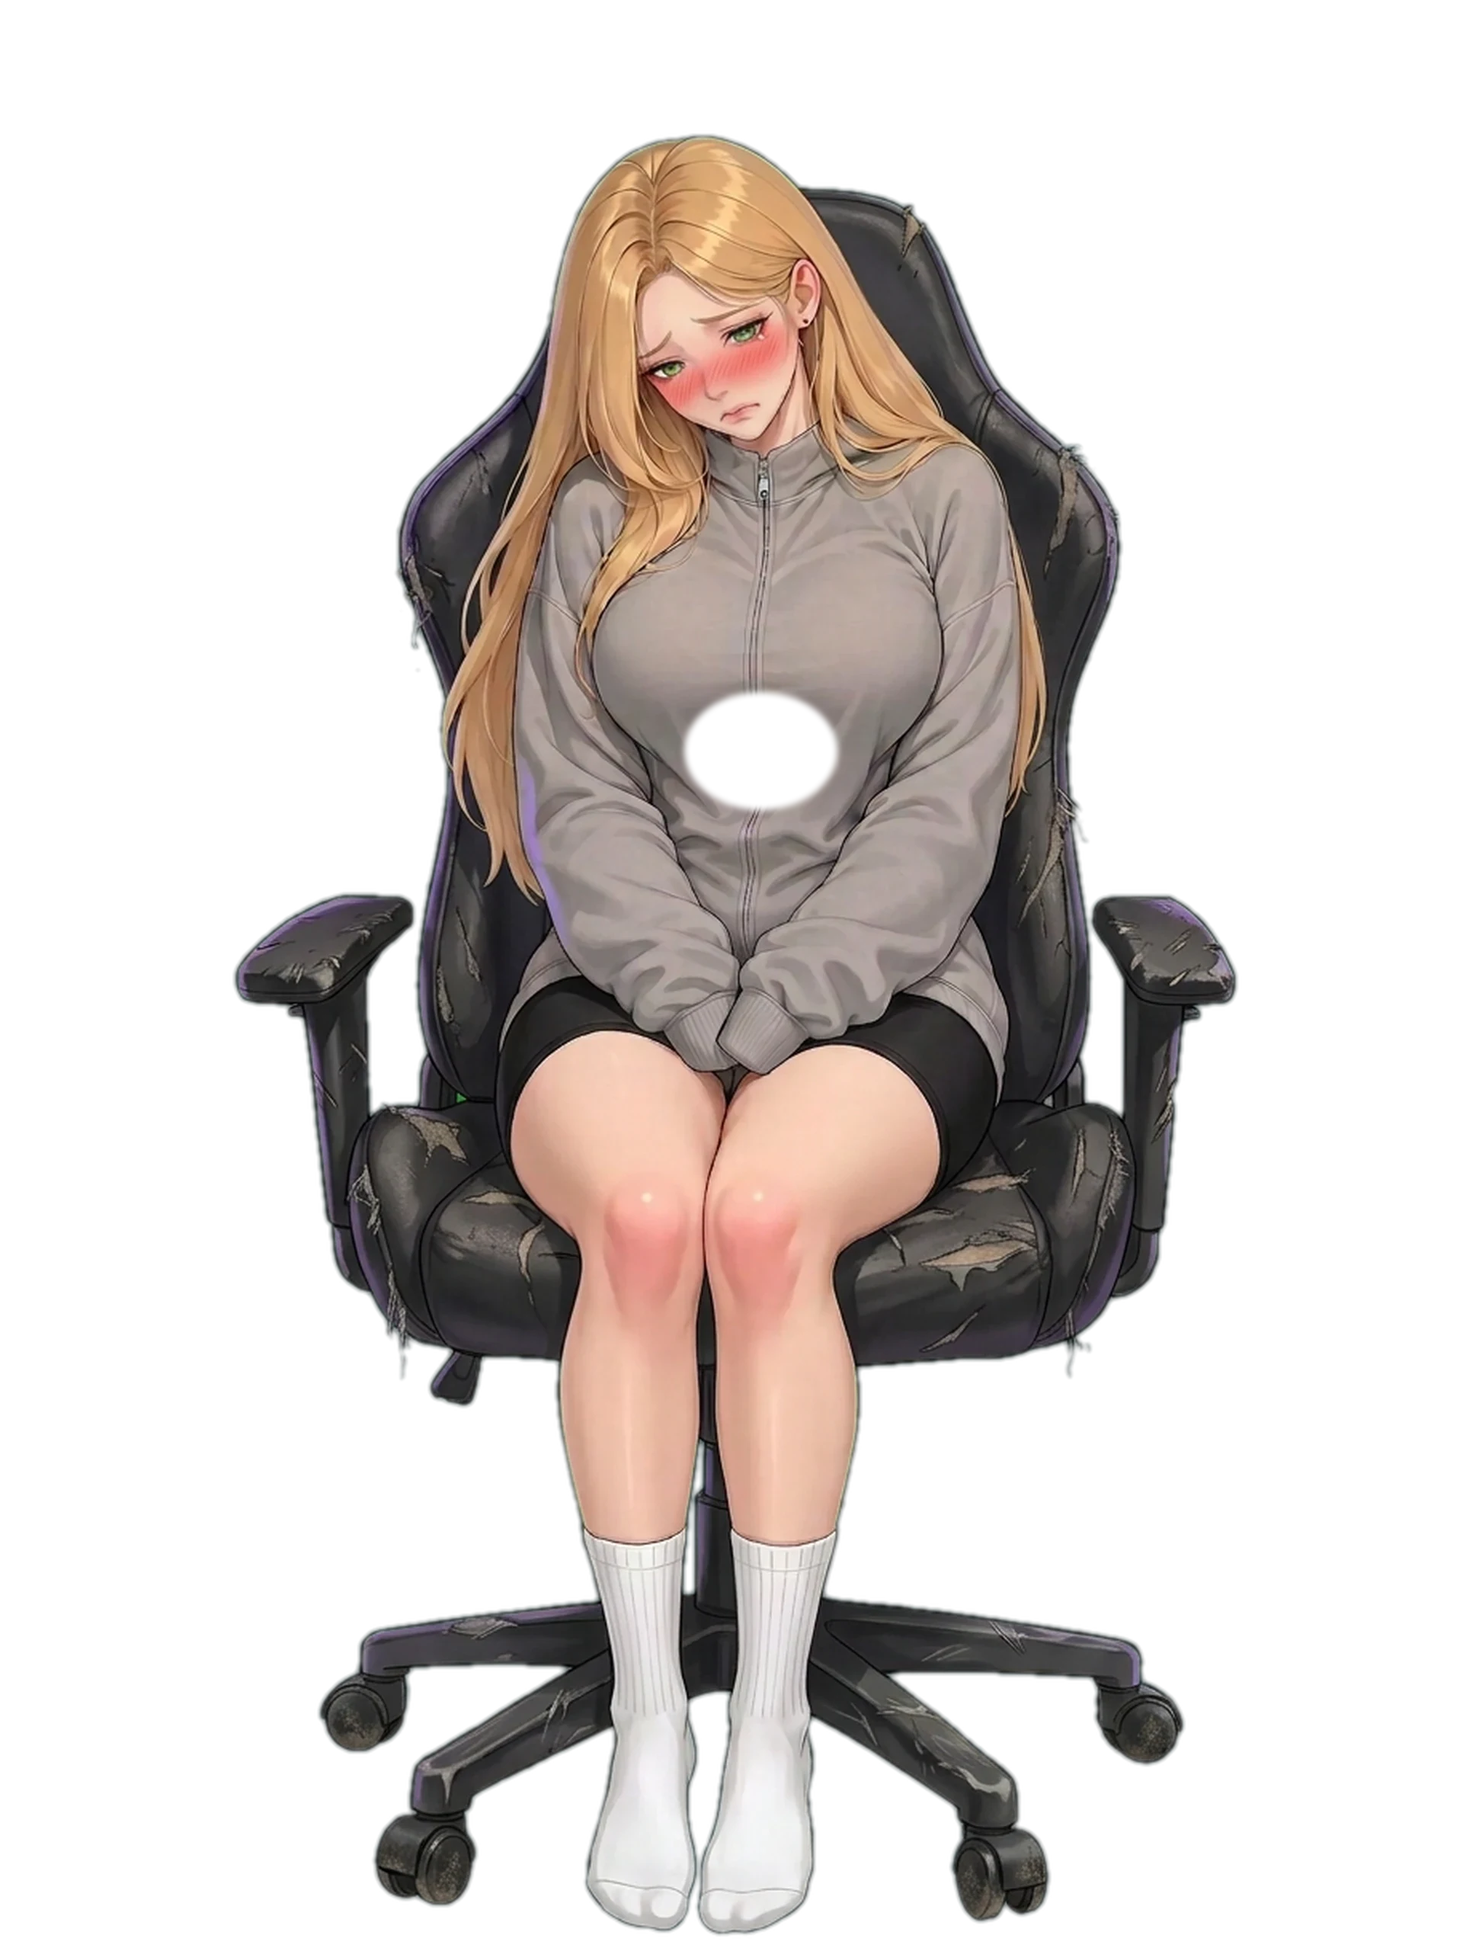
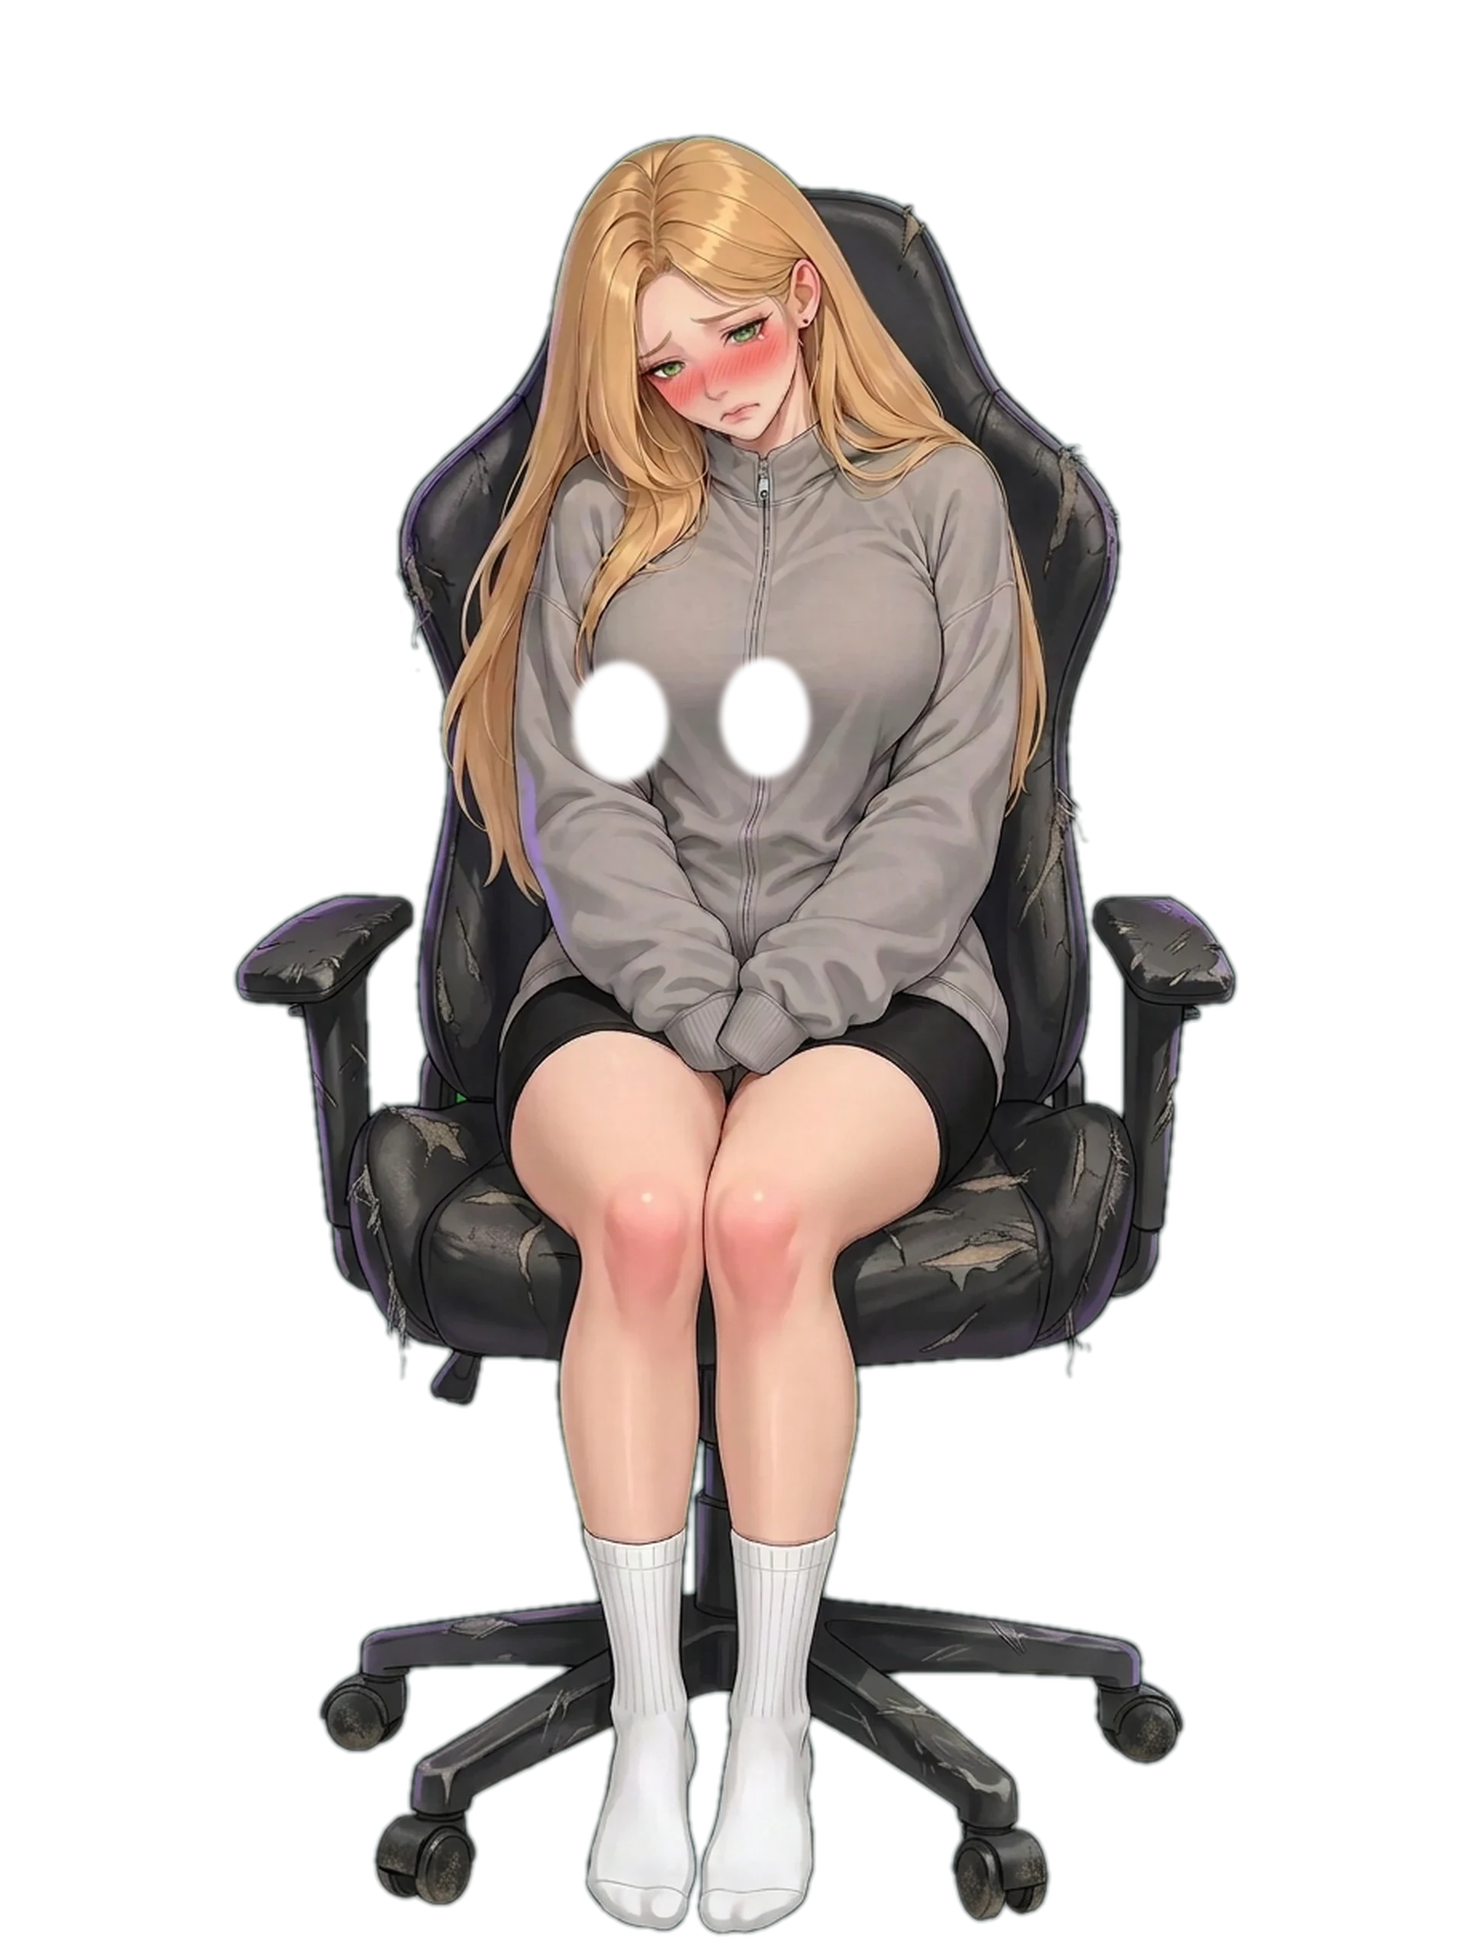
Chest jiggle per breast: two separate props with their own masks and their own pivot at the top of each round form, so each one moves on its own instead of a single block centred on the cleavage; holes re-cut to match; mask feathered to the drawn silhouette so the outline stays fixed

Changed region(s): [[0.375, 0.3125, 0.5938, 0.4375]]

diff --git a/index.html b/index.html
@@ -981,19 +981,19 @@ main{
 #artEmoBlink{ z-index:3; }
 .hero .art-emo.on{ opacity:1; }
 .hero .art-emo.blink{ transition:none; }
-/* грудь: отдельный маленький проп (720 px, маска запечена в альфу).
-   20-мегапиксельная копия кадра под CSS-маской убивала fps — здесь её нет. */
+/* грудь: ДВА отдельных маленьких пропа — по одному на каждую округлость
+   (720 px, маска запечена в альфу). Каждый колышется вокруг своей оси,
+   поэтому не «центр между грудей», а каждая грудь по себе. */
 .hero .art-chest{
   position:absolute; left:22%; top:12%; width:56%; height:38%;
-  background-position:50% 50%; background-size:100% 100%; background-repeat:no-repeat;
-  z-index:4; pointer-events:none; transform-origin:50% 10%;
-  opacity:0; transition:opacity .3s ease;
-  will-change:transform;
+  z-index:4; pointer-events:none; opacity:0; transition:opacity .3s ease;
 }
 .hero .art-chest.on{ opacity:1; }
-/* пока наверху нарисованный кадр эмоции, свой проп груди прячем:
-   его пиксели из базового кадра, а у кадра-эмоции грудь уже своя */
-.hero .art-chest.on.hidden{ opacity:0; }
+.hero .art-chest i{
+  position:absolute; inset:0; display:block;
+  background-position:50% 50%; background-size:100% 100%; background-repeat:no-repeat;
+  will-change:transform; backface-visibility:hidden;
+}
 
 /* грудь проседает, сплющивается и пружинит обратно */
 /* пружина по физике: быстрое падение (ускорение), отскок с замедлением,
@@ -1007,17 +1007,17 @@ main{
   74%  { transform:translateY(0.06%)  scale(1.0003, 1.0006); }
   100% { transform:translateY(0)      scale(1, 1); }
 }
-.hero .art-chest.hit{ animation:chestJiggle 1.15s linear; }
+.hero .art-chest.hit i{ animation:chestJiggle 1.15s linear; }
 /* дыхание: на 4-й стадии грудь тяжелее — дышит заметнее */
 @keyframes chestBreathe{
   0%,100% { transform:translateY(0)     scale(1, 1); }
   50%     { transform:translateY(.35%)  scale(1, 1.006); }
 }
-.hero .art-chest.breathe{ animation:chestBreathe var(--breathe,4.6s) ease-in-out infinite; }
-.hero .art-chest.hit.breathe{ animation:chestJiggle 1.15s linear; }
+.hero .art-chest.breathe i{ animation:chestBreathe var(--breathe,4.6s) ease-in-out infinite; }
+.hero .art-chest.hit.breathe i{ animation:chestJiggle 1.15s linear; }
 @media (prefers-reduced-motion: reduce){
-  .hero .art-chest.hit, .hero .art-chest.breathe,
-  .hero .art-chest.hit.breathe{ animation:none; }
+  .hero .art-chest.hit i, .hero .art-chest.breathe i,
+  .hero .art-chest.hit.breathe i{ animation:none; }
 }
 
 /* румянец: два мягких пятна на щеках, сила зависит от «смущения» */
@@ -1220,8 +1220,10 @@ main{
                    sizes="(max-width: 520px) 370px, 540px" />
               <img class="art-img art-emo" id="artEmoBlink" alt="" aria-hidden="true" decoding="async"
                    sizes="(max-width: 520px) 370px, 540px" />
-              <!-- грудь: маленький проп из того же кадра с запечённой мягкой маской -->
-              <div class="art-chest" id="artChest" aria-hidden="true"></div>
+              <!-- грудь: два маленьких пропа (левая/правая) с запечённой мягкой маской -->
+              <div class="art-chest" id="artChest" aria-hidden="true">
+                <i id="artChestL"></i><i id="artChestR"></i>
+              </div>
               <div class="art-blush" id="artBlush" aria-hidden="true"></div>
             </div>
           </div>
@@ -1744,6 +1746,37 @@ function motionInit(){
 function motionSync(src){
   MOTION.src = src || '';
   if (MOTION.lean) MOTION.lean.classList.toggle('idle', !!MOTION.src && !MOTION.reduced);
+}
+
+/* геометрия груди: контур каждой округлости в долях кадра (cx, cy, rx, ry).
+   Ось вращения — верх груди у грудной стенки, чтобы двигалась именно форма,
+   а нарисованный силуэт и всё вокруг оставалось на месте. */
+const BUST_GEO = {
+  sg1: { l:[0.472,0.378,0.040,0.034], r:[0.556,0.375,0.042,0.034] },
+  sg2: { l:[0.424,0.370,0.048,0.045], r:[0.523,0.368,0.045,0.045] },
+  sg3: { l:[0.442,0.345,0.063,0.045], r:[0.586,0.340,0.065,0.047] },
+  sg4: { l:[0.429,0.404,0.076,0.074], r:[0.597,0.397,0.072,0.075] },
+};
+const CHEST_BOX = { x0:0.22, y0:0.12, x1:0.78, y1:0.50 };
+
+function chestParts(){
+  return [document.getElementById('artChestL'), document.getElementById('artChestR')];
+}
+
+function chestSet(tag){
+  const geo = tag && BUST_GEO[tag];
+  const parts = chestParts();
+  for (let i = 0; i < 2; i++){
+    const part = parts[i];
+    if (!part) continue;
+    if (!geo){ part.style.backgroundImage = ''; continue; }
+    const side = i === 0 ? 'l' : 'r';
+    const [cx, cy, rx, ry] = geo[side];
+    part.style.backgroundImage = `url("assets/chest_${tag}_${side}.webp")`;
+    const ox = (cx - CHEST_BOX.x0) / (CHEST_BOX.x1 - CHEST_BOX.x0) * 100;
+    const oy = (cy - ry * 0.85 - CHEST_BOX.y0) / (CHEST_BOX.y1 - CHEST_BOX.y0) * 100;
+    part.style.transformOrigin = ox.toFixed(2) + '% ' + oy.toFixed(2) + '%';
+  }
 }
 
 /* tap = elastic squash; power >= 0.9 (donation / purchase / stage-up) also leans in */
@@ -2319,7 +2352,7 @@ function loadArt(src){
     const chest = el.artChest;
     const tag = (src.match(/sg\d/) || [])[0];
     if (chest){
-      chest.style.backgroundImage = tag ? `url("assets/chest_${tag}.webp")` : '';
+      chestSet(tag);
       chest.classList.toggle('on', !!tag);
       chest.classList.toggle('breathe', tag === 'sg3' || tag === 'sg4');
     }
@@ -2330,7 +2363,7 @@ function loadArt(src){
     if (token !== artToken) return;
     el.artImg.classList.remove('on');
     el.artImg.removeAttribute('src');
-    if (el.artChest){ el.artChest.classList.remove('on', 'hit', 'breathe'); el.artChest.style.backgroundImage = ''; }
+    if (el.artChest){ el.artChest.classList.remove('on', 'hit', 'breathe'); chestSet(null); }
     emoSet(null);
     motionSync('');
   };

diff --git a/tools/prep_light.py b/tools/prep_light.py
@@ -17,12 +17,18 @@ SM_ROOM = (1200, 1356)
 
 CHEST_BOX = (0.22, 0.12, 0.78, 0.50)   # единый кроп для всех стадий (left, top, right, bottom)
 CHEST_W = 720
-MASK = {                                # центр и радиусы эллипса в долях кадра спрайта
-    'sg1': (0.525, 0.375, 0.085, 0.052),   # кофта, бюст под тканью
-    'sg2': (0.520, 0.385, 0.090, 0.052),
-    'sg3': (0.520, 0.360, 0.095, 0.055),   # топ, открытая грудь
-    'sg4': (0.520, 0.370, 0.100, 0.058),   # откинулась, грудь крупнее в кадре
+# Грудь = ДВА отдельных пропа, по одному на каждую «округлость».
+# (cx, cy, rx, ry) — контур груди в долях кадра спрайта: (левая, правая).
+BUST = {
+    'sg1': ((0.472, 0.378, 0.040, 0.034), (0.556, 0.375, 0.042, 0.034)),  # кофта
+    'sg2': ((0.424, 0.370, 0.048, 0.045), (0.523, 0.368, 0.045, 0.045)),
+    'sg3': ((0.442, 0.345, 0.063, 0.045), (0.586, 0.340, 0.065, 0.047)),  # топ
+    'sg4': ((0.429, 0.404, 0.076, 0.074), (0.597, 0.397, 0.072, 0.075)),  # откинулась
 }
+SIDES = ('l', 'r')
+CORE_K = 0.74    # непрозрачное ядро (доля контура груди)
+HULL_K = 0.92    # внешняя граница растушёвки
+HOLE_K = 0.68    # окно в базовом кадре — строго внутри ядра
 
 
 def shrink(src, dest, size):
@@ -31,31 +37,60 @@ def shrink(src, dest, size):
     print(f'{os.path.basename(dest)} {size} {os.path.getsize(dest)/1e6:.2f} MB')
 
 
-def punch_hole(tag):
-    """Вырезаем в базовом кадре окно под грудью.
+def _ellipse_mask(size, cx, cy, rx, ry, k):
+    m = Image.new('L', size, 0)
+    ImageDraw.Draw(m).ellipse([cx - rx*k, cy - ry*k, cx + rx*k, cy + ry*k], fill=255)
+    return m
 
-    Без этого патч, уезжая, оставляет под собой старые пиксели — виден
-    гостинг (двойной контур). Окно меньше патча (82 % эллипса), поэтому
-    край окна всегда закрыт непрозрачной серединой патча.
+
+def _bust_mask(size, cx, cy, rx, ry):
+    """Ядро + мягкая растушёвка наружу.
+
+    Ядро непрозрачное — иначе край пропа полупрозрачный и сквозь него
+    просвечивает окно в базовом кадре. Растушёвка гаснет у контура груди,
+    поэтому нарисованный контур остаётся статичным: проп двигает только
+    «мясо» внутри силуэта, и двойного контура не возникает.
     """
-    cx, cy, rx, ry = MASK[tag]
-    for name in (f'art_day1_{tag}.webp', f'art_day1_{tag}_sm.webp'):
-        path = os.path.join(A, name)
-        im = Image.open(path).convert('RGBA')
-        W, H = im.size
-        m = Image.new('L', (W, H), 0)
-        k = 0.58
-        box = [int((cx-rx*k)*W), int((cy-ry*k)*H), int((cx+rx*k)*W), int((cy+ry*k)*H)]
-        ImageDraw.Draw(m).ellipse(box, fill=255)
-        m = m.filter(ImageFilter.GaussianBlur(max(2, int(min(rx*k*W, ry*k*H)*0.06))))
-        arr = np.array(im)
-        arr[..., 3] = (arr[..., 3].astype(np.float32) * (1 - np.array(m).astype(np.float32)/255)).astype('uint8')
-        Image.fromarray(arr, 'RGBA').save(path, 'WEBP', quality=90 if 'sm' not in name else 86,
-                                          alpha_quality=100, method=6)
-        print(f'окно: {name} {W}x{H} {os.path.getsize(path)/1e6:.2f} MB')
+    hull = _ellipse_mask(size, cx, cy, rx, ry, HULL_K)
+    hull = hull.filter(ImageFilter.GaussianBlur(max(2, int(min(rx, ry) * 0.085))))
+    core = _ellipse_mask(size, cx, cy, rx, ry, CORE_K)
+    return Image.fromarray(np.maximum(np.array(hull), np.array(core)))
+
+
+def _hole_mask(size, cx, cy, rx, ry):
+    m = _ellipse_mask(size, cx, cy, rx, ry, HOLE_K)
+    return m.filter(ImageFilter.GaussianBlur(max(2, int(min(rx, ry) * 0.05))))
+
+
+def _punch(path, tag, quality=90):
+    im = Image.open(path).convert('RGBA')
+    W, H = im.size
+    hole = Image.new('L', (W, H), 0)
+    for (cx, cy, rx, ry) in BUST[tag]:
+        h = _hole_mask((W, H), cx * W, cy * H, rx * W, ry * H)
+        hole = Image.fromarray(np.maximum(np.array(hole), np.array(h)))
+    arr = np.array(im)
+    arr[..., 3] = (arr[..., 3].astype(np.float32) * (1 - np.array(hole).astype(np.float32) / 255)).astype('uint8')
+    Image.fromarray(arr, 'RGBA').save(path, 'WEBP', quality=quality, alpha_quality=100, method=6)
+    print(f'окно: {os.path.basename(path)} {W}x{H} {os.path.getsize(path)/1e6:.2f} MB')
+
+
+def punch_hole(tag):
+    """Окно под каждой грудью в базовом кадре и в кадрах эмоций.
+
+    Без него проп, уезжая, оставляет под собой старые пиксели — гостинг.
+    """
+    _punch(os.path.join(A, f'art_day1_{tag}.webp'), tag, 90)
+    _punch(os.path.join(A, f'art_day1_{tag}_sm.webp'), tag, 86)
+    for mood in ('blink', 'shy'):
+        for suffix in ('', '_lg'):
+            p = os.path.join(A, f'art_emo_{tag}_{mood}{suffix}.webp')
+            if os.path.exists(p):
+                _punch(p, tag, 88)
 
 
 def chest_patch(tag):
+    """Два маленьких пропа: левая и правая грудь (общий кроп, разная альфа)."""
     im = Image.open(os.path.join(A, f'art_day1_{tag}.webp')).convert('RGBA')
     W, H = im.size
     x0, y0, x1, y1 = CHEST_BOX
@@ -64,32 +99,24 @@ def chest_patch(tag):
     cw, ch = crop.size
     k = CHEST_W / cw
     crop = crop.resize((CHEST_W, max(1, round(ch*k))), Image.LANCZOS)
-
-    cx, cy, rx, ry = MASK[tag]
     mw, mh = CHEST_W, crop.height
-    mx = (cx - x0) / (x1 - x0) * mw
-    my = (cy - y0) / (y1 - y0) * mh
-    mrx = rx / (x1 - x0) * mw
-    mry = ry / (y1 - y0) * mh
 
-    # жёсткое ядро + растушёвка только по внешнему кольцу:
-    # иначе у края патч полупрозрачный и под ним просвечивает «окно»
-    mask = Image.new('L', (mw, mh), 0)
-    ImageDraw.Draw(mask).ellipse([mx-mrx, my-mry, mx+mrx, my+mry], fill=255)
-    soft = mask.filter(ImageFilter.GaussianBlur(max(2, int(min(mrx, mry)*0.24))))
-    core = Image.new('L', (mw, mh), 0)
-    ImageDraw.Draw(core).ellipse([mx-mrx*0.70, my-mry*0.86, mx+mrx*0.70, my+mry*0.86], fill=255)
-    mask = Image.fromarray(np.maximum(np.array(soft), np.array(core)))
-
-    arr = np.array(crop)
-    arr[..., 3] = (np.array(mask).astype(np.float32) * (arr[..., 3].astype(np.float32)/255)).astype('uint8')
-    out = os.path.join(A, f'chest_{tag}.webp')
-    Image.fromarray(arr, 'RGBA').save(out, 'WEBP', quality=92, alpha_quality=100, method=6)
-    print(f'chest_{tag}.webp {CHEST_W}x{crop.height} {os.path.getsize(out)/1e3:.0f} KB')
+    for side, (cx, cy, rx, ry) in zip(SIDES, BUST[tag]):
+        mx = (cx - x0) / (x1 - x0) * mw
+        my = (cy - y0) / (y1 - y0) * mh
+        mrx = rx / (x1 - x0) * mw
+        mry = ry / (y1 - y0) * mh
+        mask = _bust_mask((mw, mh), mx, my, mrx, mry)
+        arr = np.array(crop)
+        arr[..., 3] = (np.array(mask).astype(np.float32) * (arr[..., 3].astype(np.float32)/255)).astype('uint8')
+        out = os.path.join(A, f'chest_{tag}_{side}.webp')
+        Image.fromarray(arr, 'RGBA').save(out, 'WEBP', quality=92, alpha_quality=100, method=6)
+        print(f'chest_{tag}_{side}.webp {mw}x{mh} {os.path.getsize(out)/1e3:.0f} KB')
 
 
 if __name__ == '__main__':
     only_chest = '--chest' in sys.argv
+    only_sm = '--sm' in sys.argv
     if only_chest:
         for tag in ('sg1', 'sg2', 'sg3', 'sg4'):
             chest_patch(tag)
